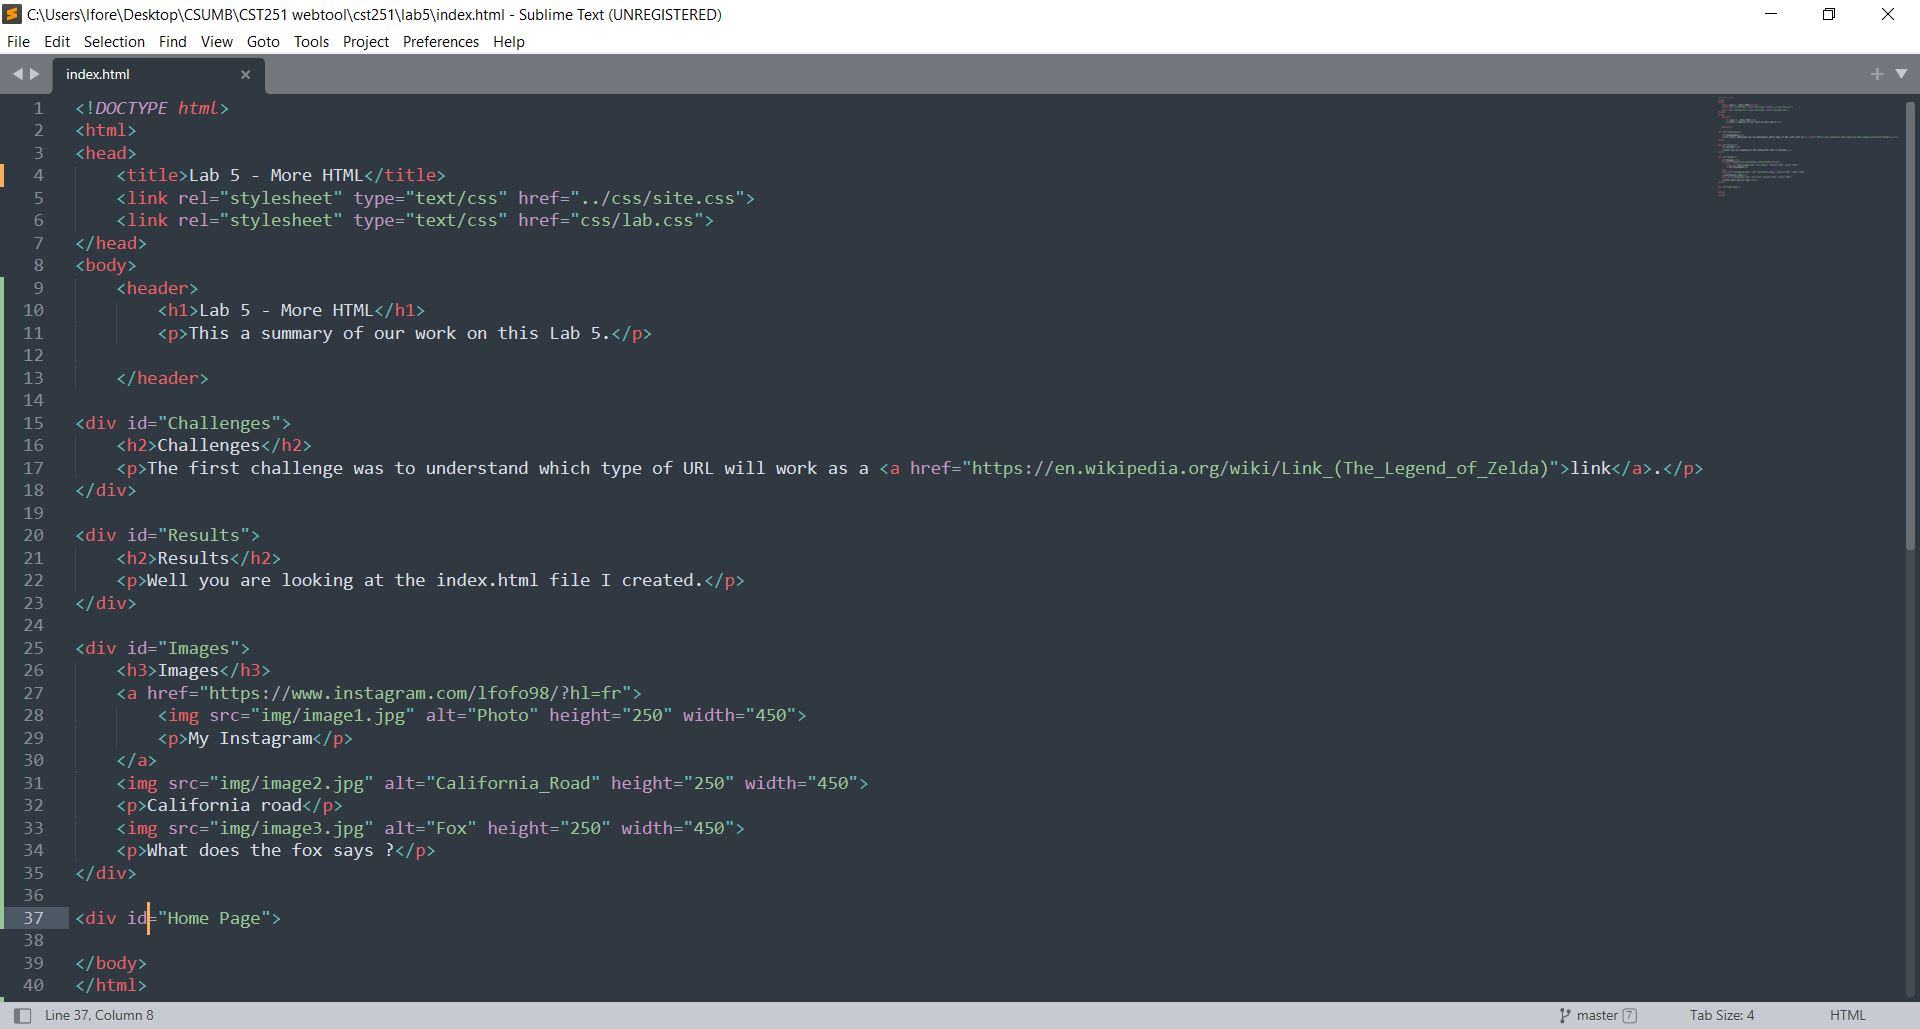
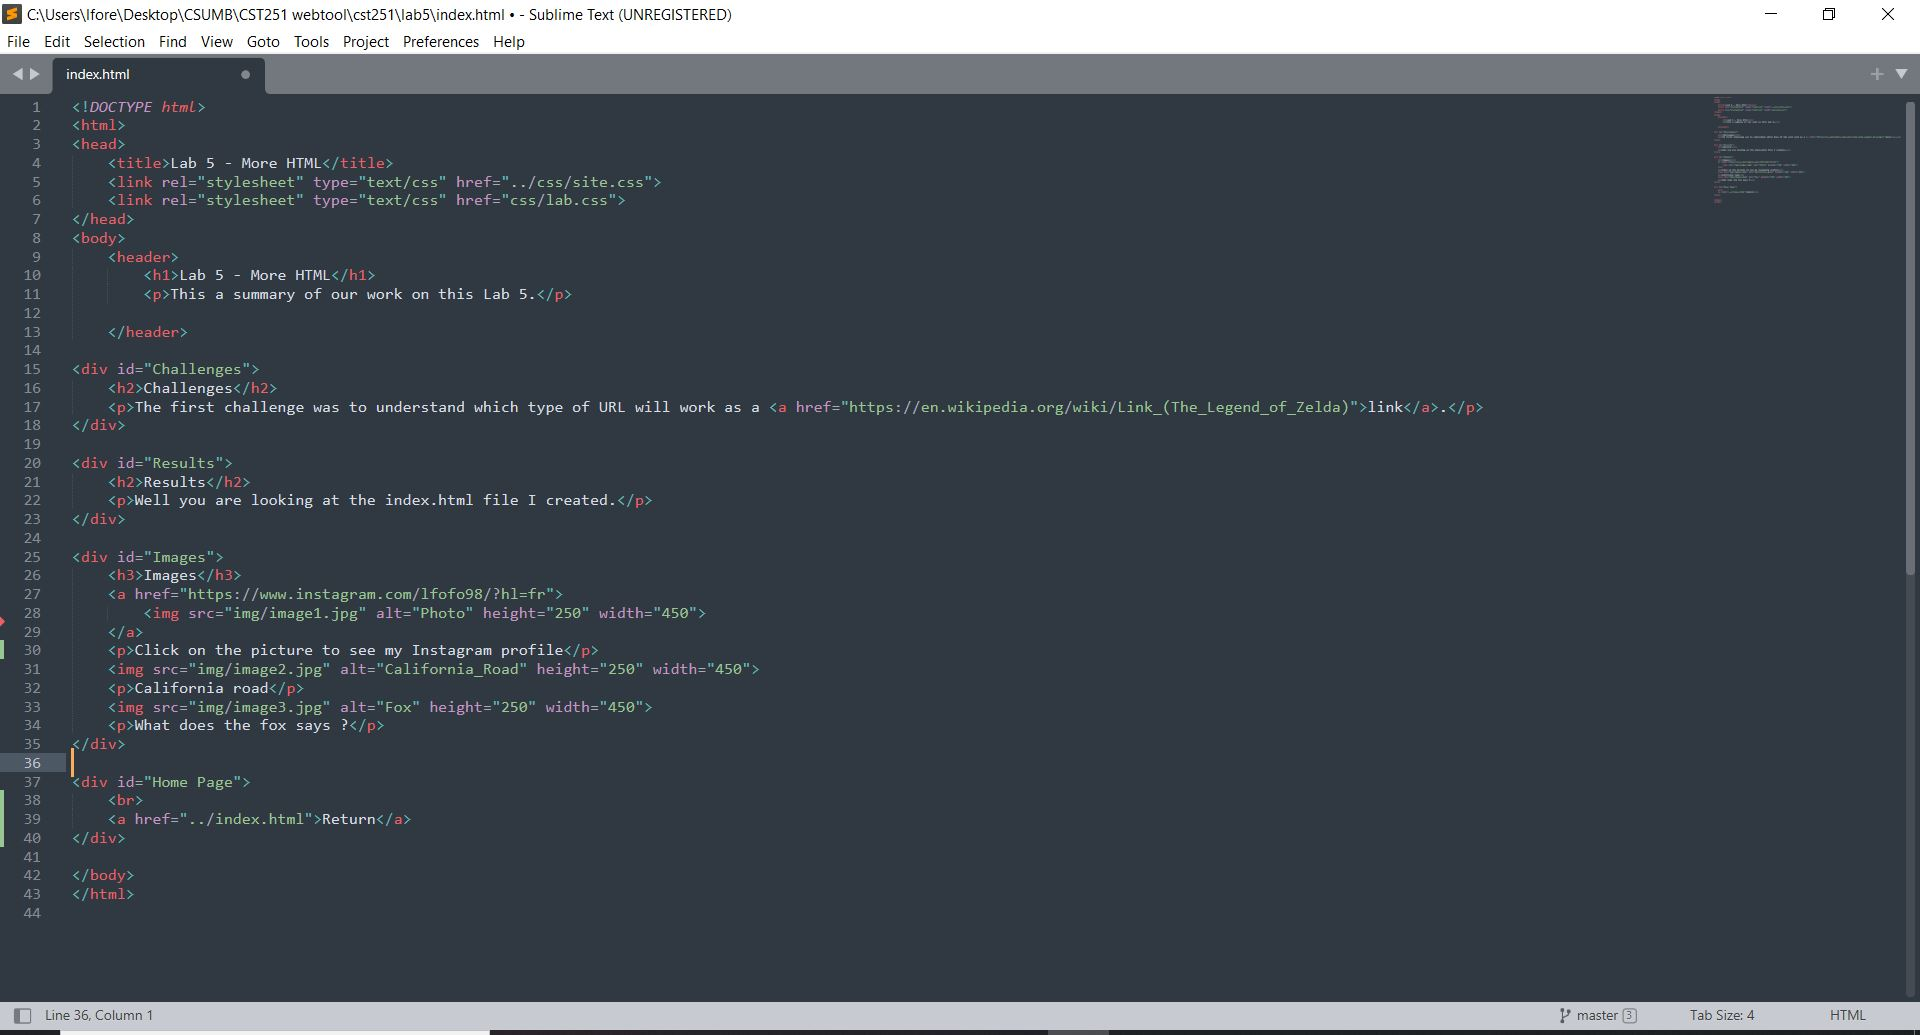
Lab5

diff --git a/lab6/index.html b/lab6/index.html
@@ -1,11 +1,38 @@
 <!DOCTYPE html>
 <html>
 <head>
-	<title>Lab X - Subject/Topic</title>
+	<title>Lab 6 - More Complicated HTML</title>
 	<link rel="stylesheet" type="text/css" href="../css/site.css">
 	<link rel="stylesheet" type="text/css" href="css/lab.css">
 </head>
+
 <body>
+	<header>
+		<h1>Lab 6 - More Complicated HTML</h1>
+		<p>This a summary of our work on this Lab 6.</p>
+	</header>
+
+<div id="Challenges">
+	<h2>Challenges</h2>
+	<p>insert someting here</p>
+</div>
+
+<div id="Results">
+	<h2>Results</h2>
+	<p>Well you are looking at the index.html file I created.</p>
+</div>
+
+<div id="content">
+	<h3>Images</h3>
+		<img src="img/image1.jpg" alt="Photo" height="250" width="450">
+		<p>Picture of me</p>
+	</a>
+</div>
+
+<div id"Home Page">
+	<br>
+	<a href="../index.html">Return</a>
+</div>
 
 </body>
 </html>

diff --git a/lab5/index.html b/lab5/index.html
@@ -26,8 +26,8 @@
 	<h3>Images</h3>
 	<a href="https://www.instagram.com/lfofo98/?hl=fr">
 		<img src="img/image1.jpg" alt="Photo" height="250" width="450">
-		<p>My Instagram</p>
 	</a>
+	<p>Click on the picture to see my Instagram profile</p>
 	<img src="img/image2.jpg" alt="California_Road" height="250" width="450">
 	<p>California road</p>
 	<img src="img/image3.jpg" alt="Fox" height="250" width="450">
@@ -35,6 +35,9 @@
 </div>
 
 <div id="Home Page">
+	<br>
+	<a href="../index.html">Return</a>
+</div>
 
 </body>
 </html>
